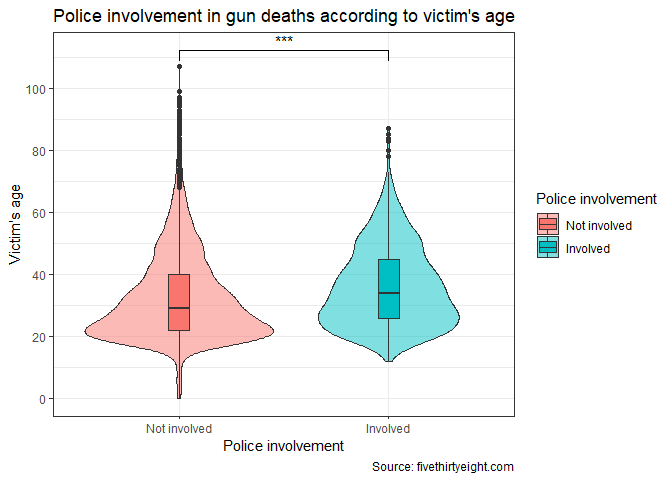
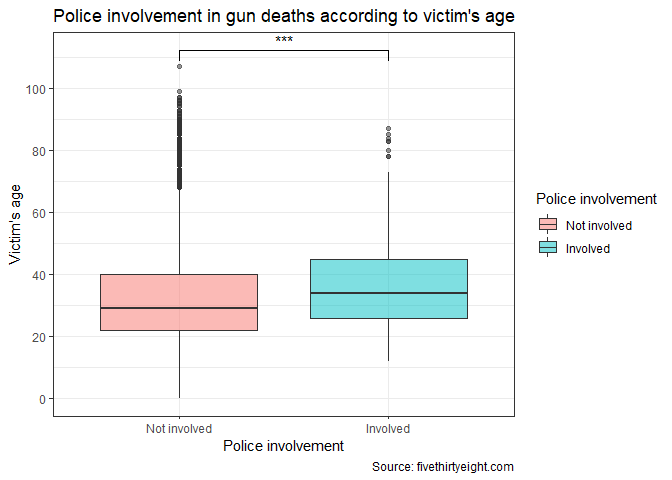
Final commit!

Changed region(s): [[0.4375, 0.25, 0.7188, 0.75], [0.125, 0.3438, 0.4062, 0.8438], [0.7812, 0.4375, 0.8438, 0.5625]]

diff --git a/HW04.md b/HW04.md
@@ -83,7 +83,7 @@ set the argument format = “markdown”
 
 ![](HW04_files/figure-gfm/age_&_sex-1.png)<!-- -->
 
-    ## [1] "The average age of female gun death victims is 44 years"
+    ## [1] "The average age of female gun death victims was 44 years"
 
 ## How many white males with at least a high school education were killed by guns in 2012?
 
@@ -104,7 +104,7 @@ Assume that:
 
     ## `summarise()` ungrouping output (override with `.groups` argument)
 
-    ## [1] "The season with most gun deaths is Summer with 26280 deaths in total from 2012-2014"
+    ## [1] "The season with most gun deaths was Summer with 26280 deaths in total from 2012-2014"
 
 # These are more open ended questions from here on out, you could look at making multiple summaries or types of plots.
 
@@ -114,7 +114,8 @@ Assume that:
 arise. It is clear by the data that white people gun deaths are more
 related to suicide than homicide. On the other hand, black people gun
 deaths are the opposite, with more deaths related to homicide than
-suicide. Meanwhile, hispanic population seems about the same.
+suicide. Meanwhile, hispanic population seems about the same in
+proportion.
 
 ![](HW04_files/figure-gfm/race-1.png)<!-- -->
 
@@ -155,16 +156,32 @@ as the most likely cause of gun death.
 
 ![](HW04_files/figure-gfm/police-1.png)<!-- -->
 
-**Answer** About police involvement and race, it seems that police
-officers as not as involved with the total number of deaths per race. In
-general, numbers are at least a order of magnitude less when police is
-involved, that’s why a log 10 scale was necessary to observe all values
-clearly inside the graph. And also why I included the table.
+    ## `summarise()` ungrouping output (override with `.groups` argument)
+
+| Police involvement | Total gun deaths | Percentage (%) | Average deaths among all races |
+| :----------------- | ---------------: | -------------: | -----------------------------: |
+| Not involved       |            33765 |             96 |                         6753.0 |
+| Involved           |             1402 |              4 |                          280.4 |
+
+**Answer** As seen before, suicide represents an important portion of
+the database and can bias the analysis of police involvement, so the
+data was filtered to only include homicide.
+
+About police involvement and race, it seems that police officers are
+involved in only 4% of homicides in the United States (see table). When
+evaluated by race, involvement is generally low too. If we consider the
+average deaths among all races, black and white populations are the most
+affected by police involvement, while hispanic population are right on
+the average value (see table).
 
 Think about performing stats such as a t.test to see if differences you
 are plotting are statistically significant
 
 ``` r
+#It's been a while since I had my statistics course, so if this analysis is wrong in any way, feel free to explain to me how to correct it. 
+
+
+#Kolmogorov-Smirnov test to check for normality in the data
 ks.test(dp_age$age[dp_age$police == "Not involved"],
        dp_age$age[dp_age$police == "Involved"])
 ```
@@ -181,6 +198,19 @@ ks.test(dp_age$age[dp_age$police == "Not involved"],
     ## alternative hypothesis: two-sided
 
 ``` r
+#Fligner-Killeen test to check for heteroscedasticity
+fligner.test(list(dp_age$age[dp_age$police == "Not involved"],
+       dp_age$age[dp_age$police == "Involved"]))
+```
+
+    ## 
+    ##  Fligner-Killeen test of homogeneity of variances
+    ## 
+    ## data:  list(dp_age$age[dp_age$police == "Not involved"], dp_age$age[dp_age$police == "Involved"])
+    ## Fligner-Killeen:med chi-squared = 2.3927, df = 1, p-value = 0.1219
+
+``` r
+#Mann-Whitman-Wilcoxon test to compare non-normal samples
 wilcox.test(dp_age$age[dp_age$police == "Not involved"],
                        dp_age$age[dp_age$police == "Involved"])
 ```
@@ -194,14 +224,24 @@ wilcox.test(dp_age$age[dp_age$police == "Not involved"],
 
 ![](HW04_files/figure-gfm/police_2-1.png)<!-- -->
 
-**Answer** The distribution of victim’s age is not exactly normal, see
-the Kolmogorov-Smirnov test results (p \< 0.001), also noticeable in the
-violin plot, so the Mann-Whitman-Wilcoxon test is a better option to
-assess statistical differences between groups. Although I didn’t test
-for heterocedasticity. Police involvent in significantly different when
-comparing age victims
+    ## `summarise()` ungrouping output (override with `.groups` argument)
+
+| Police involvement | Median victim’s age | Youngest victim |
+| :----------------- | ------------------: | --------------: |
+| Not involved       |                  29 |               0 |
+| Involved           |                  34 |              12 |
+
+**Answer** The distribution of victim’s age is not exactly normal (see
+the Kolmogorov-Smirnov test results, p \< 0.001), but the data has
+homoscedasticity (see the Fligner-Killen test, p \> 0.05), therefore,
+the Mann-Whitman-Wilcoxon test is a better option to assess statistical
+differences between samples than the t-test. According to the analysis,
+the victims’ age is statistically higher when police is involved. Check
+the table for the median values. It is also noticeable than police
+officers didn’t shoot anyone younger than 12.
 
 ``` r
+#Wilcoxon test for every race, age and police involvement.
 wilcox.test(deaths_police$age[deaths_police$police == "Not involved" & deaths_police$race == "AP"],
        deaths_police$age[deaths_police$police == "Involved" & deaths_police$race == "AP"])
 ```
@@ -262,7 +302,17 @@ wilcox.test(deaths_police$age[deaths_police$police == "Not involved" & deaths_po
     ## alternative hypothesis: true location shift is not equal to 0
 
 Finally, all together now:
+
 ![](HW04_files/figure-gfm/police_3-1.png)<!-- -->
+
+**Answer** According to our analysis, there is no significant
+correlation of the age victims and police involvement in Asian/Pacific
+islander (AP), White (WH), and…uh…I guess native American/Alaskan?
+(NNA)\* populations. In contrast, Black and Hispanic people is
+statistically older when police is involved in their cause of death.
+
+\* The original tag was “Not *Availabletive* American/Alaskan”…but I
+image that was a typo or something.
 
 ## Session info
 
@@ -281,7 +331,7 @@ devtools::session_info()
     ##  collate  Spanish_Mexico.1252         
     ##  ctype    Spanish_Mexico.1252         
     ##  tz       America/Mexico_City         
-    ##  date     2020-07-25                  
+    ##  date     2020-07-26                  
     ## 
     ## - Packages -------------------------------------------------------------------
     ##  package     * version date       lib source        

diff --git a/README.md b/README.md
@@ -1,6 +1,13 @@
 # HW04
 Due Monday July 27th
 
+### Mission accomplished!
+Hi!
+I don't have huge datasets that are actually worth to practice data wrangling and cleaning, so I decided to go for option 2. I must say that it was very challenging but rewarding, I had to read a lot the documentation to be able to finish it.
+
+Here's the [markdown file](HW04.md), and the [Rmd file](HW04.Rmd) for peer reviewing. 
+
+
 ### Option 1
 Explore a dataset. That's right, like last week find some data online or use your own data and manipulate it and explore it to create some data summaries.  You can look at that homework for a list of datasets. Make use of the major dplyr functions select(), mutate(), arrange(), group_by(), summarize(), count() or baseR equivalents (there isn't a good baseR equivalent for many of these functions though). If you are using a Rmd, think about making your table summaries and printing them nicely with knitr::kable() and still think about plotting some data.  
 
